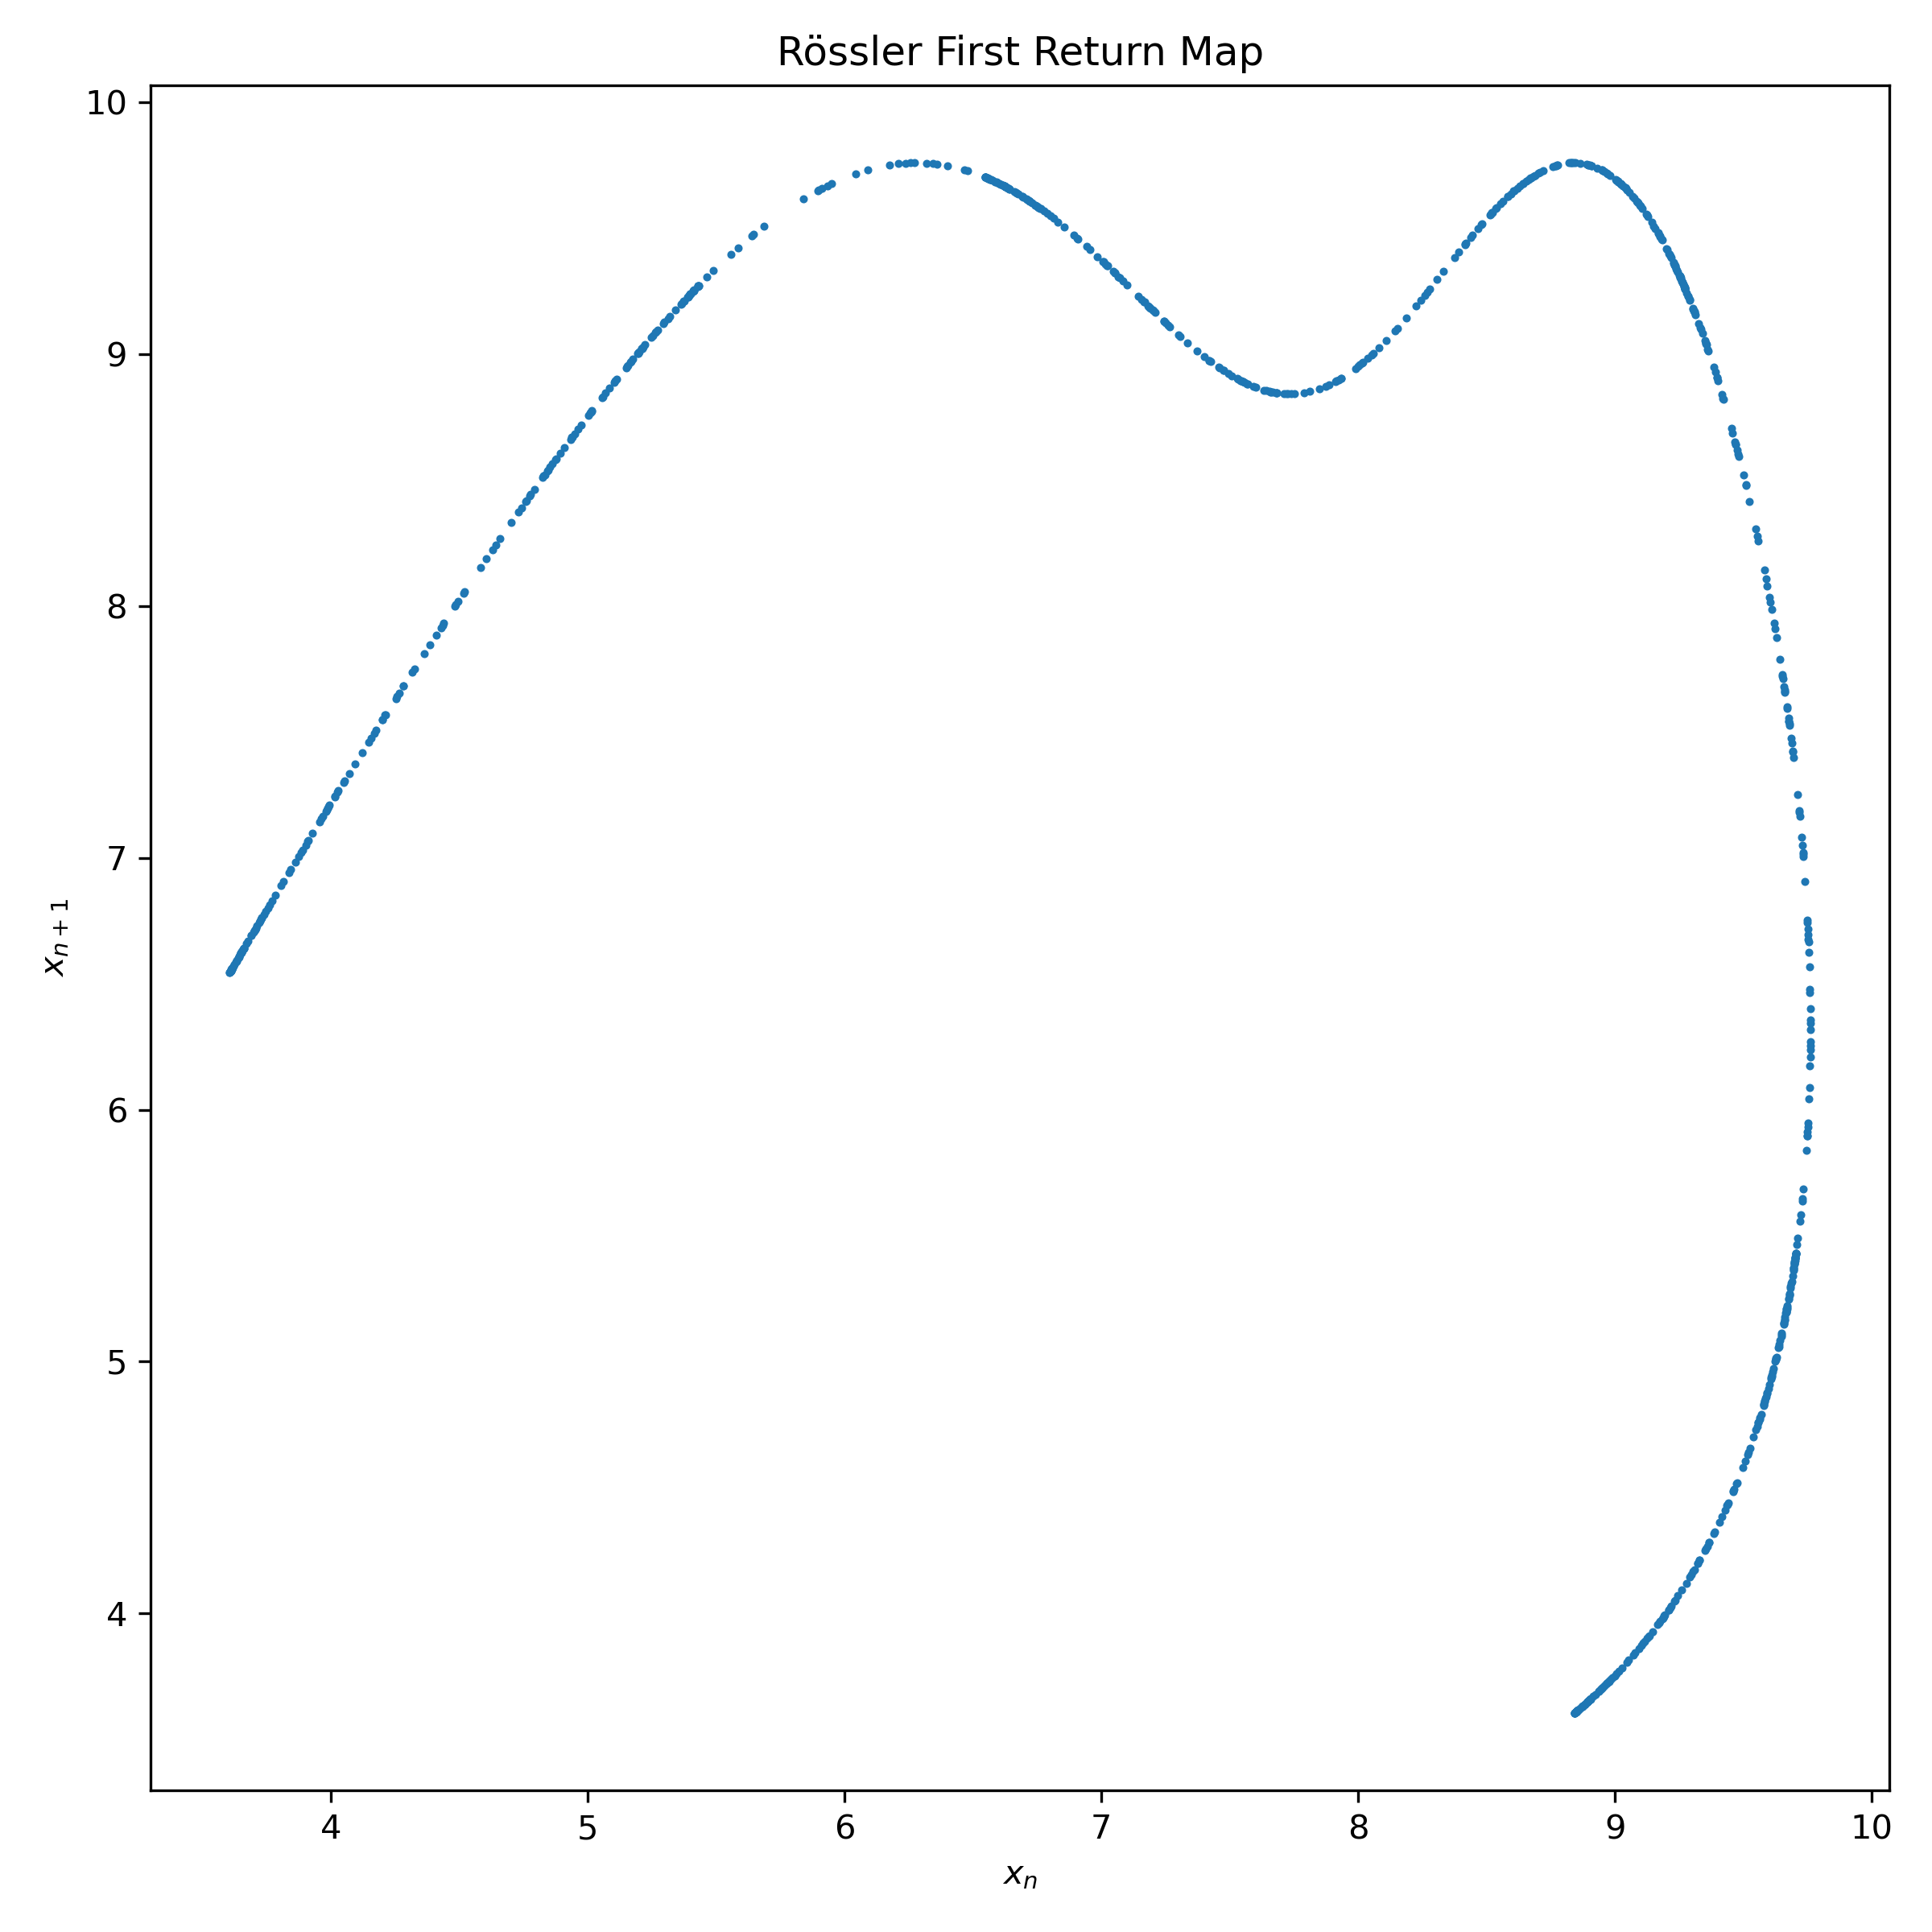
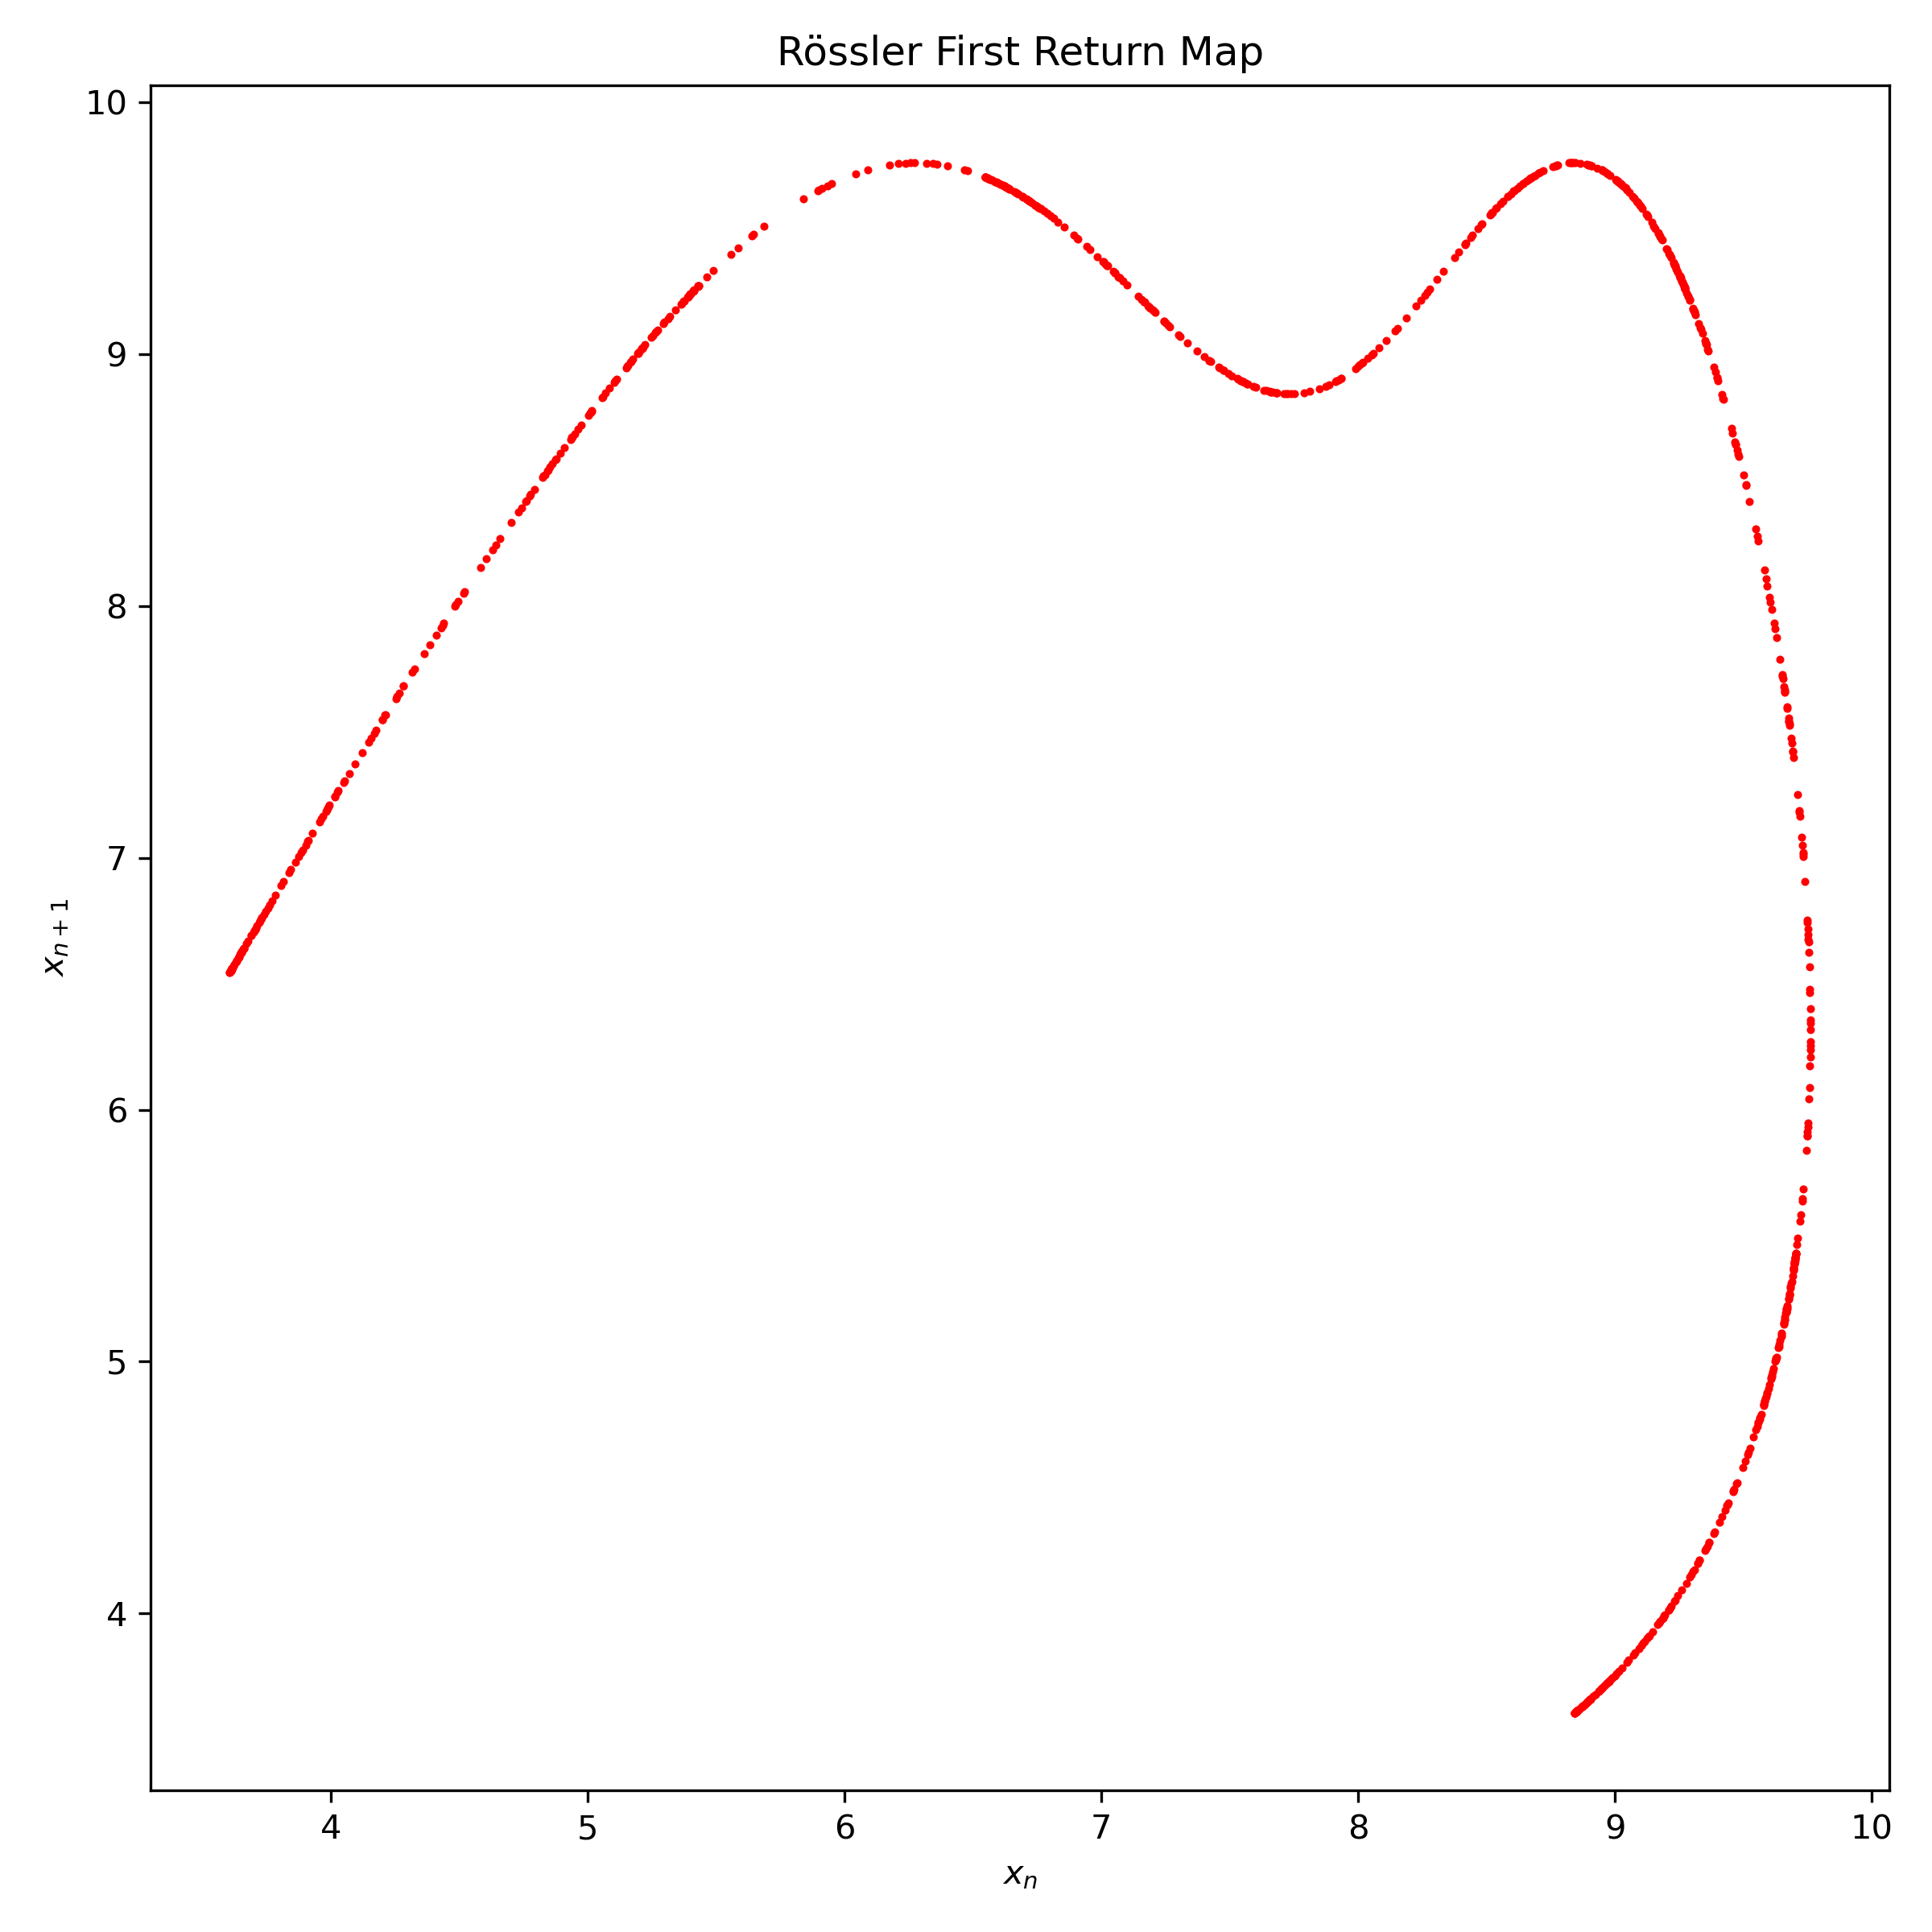
update rössler examples and figures

diff --git a/examples/rossler.py b/examples/rossler.py
@@ -30,7 +30,7 @@ x = crossings[:, 0]
 z = crossings[:, 2]
 
 plt.figure(figsize=(8, 8))
-plt.scatter(x, z, s=2)
+plt.scatter(x, z, s=2, color="red")
 plt.title("Rössler Poincaré Section: y = 0, dy/dt > 0")
 plt.xlabel("x")
 plt.ylabel("z")

diff --git a/examples/rossler_return_map.py b/examples/rossler_return_map.py
@@ -29,7 +29,7 @@ if len(crossings) < 2:
 x = crossings[:, 0]
 
 plt.figure(figsize=(8, 8))
-plt.scatter(x[:-1], x[1:], s=2)
+plt.scatter(x[:-1], x[1:], s=2, color="red")
 plt.title("Rössler First Return Map")
 plt.xlabel(r"$x_n$")
 plt.ylabel(r"$x_{n+1}$")